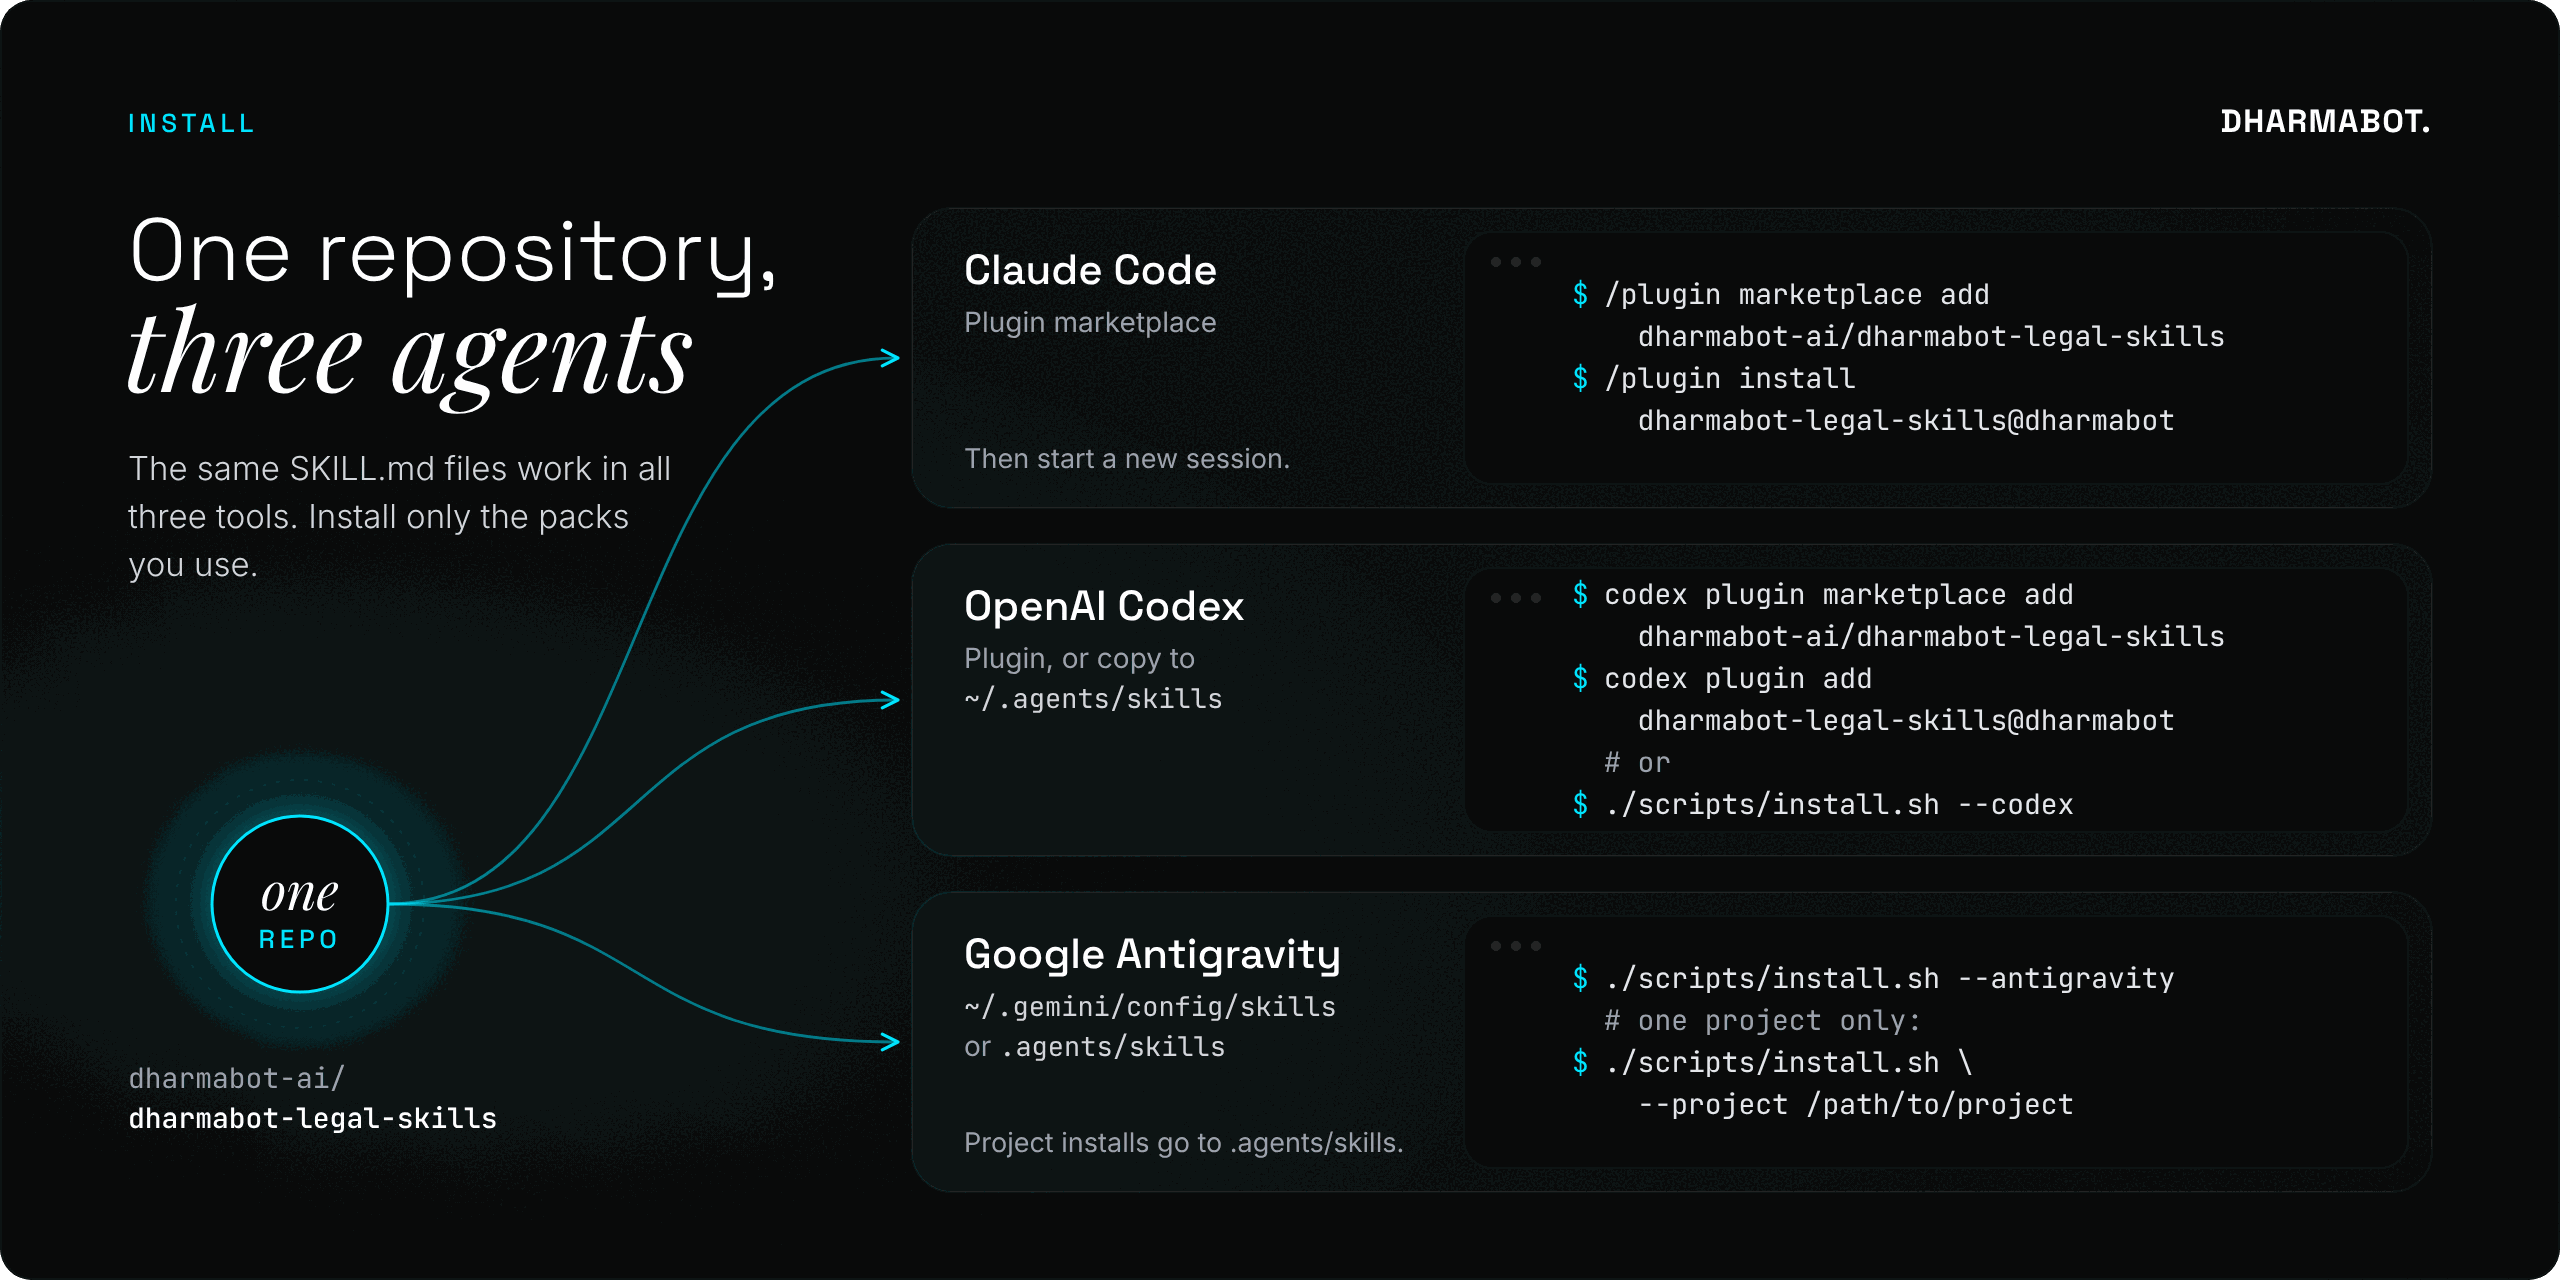
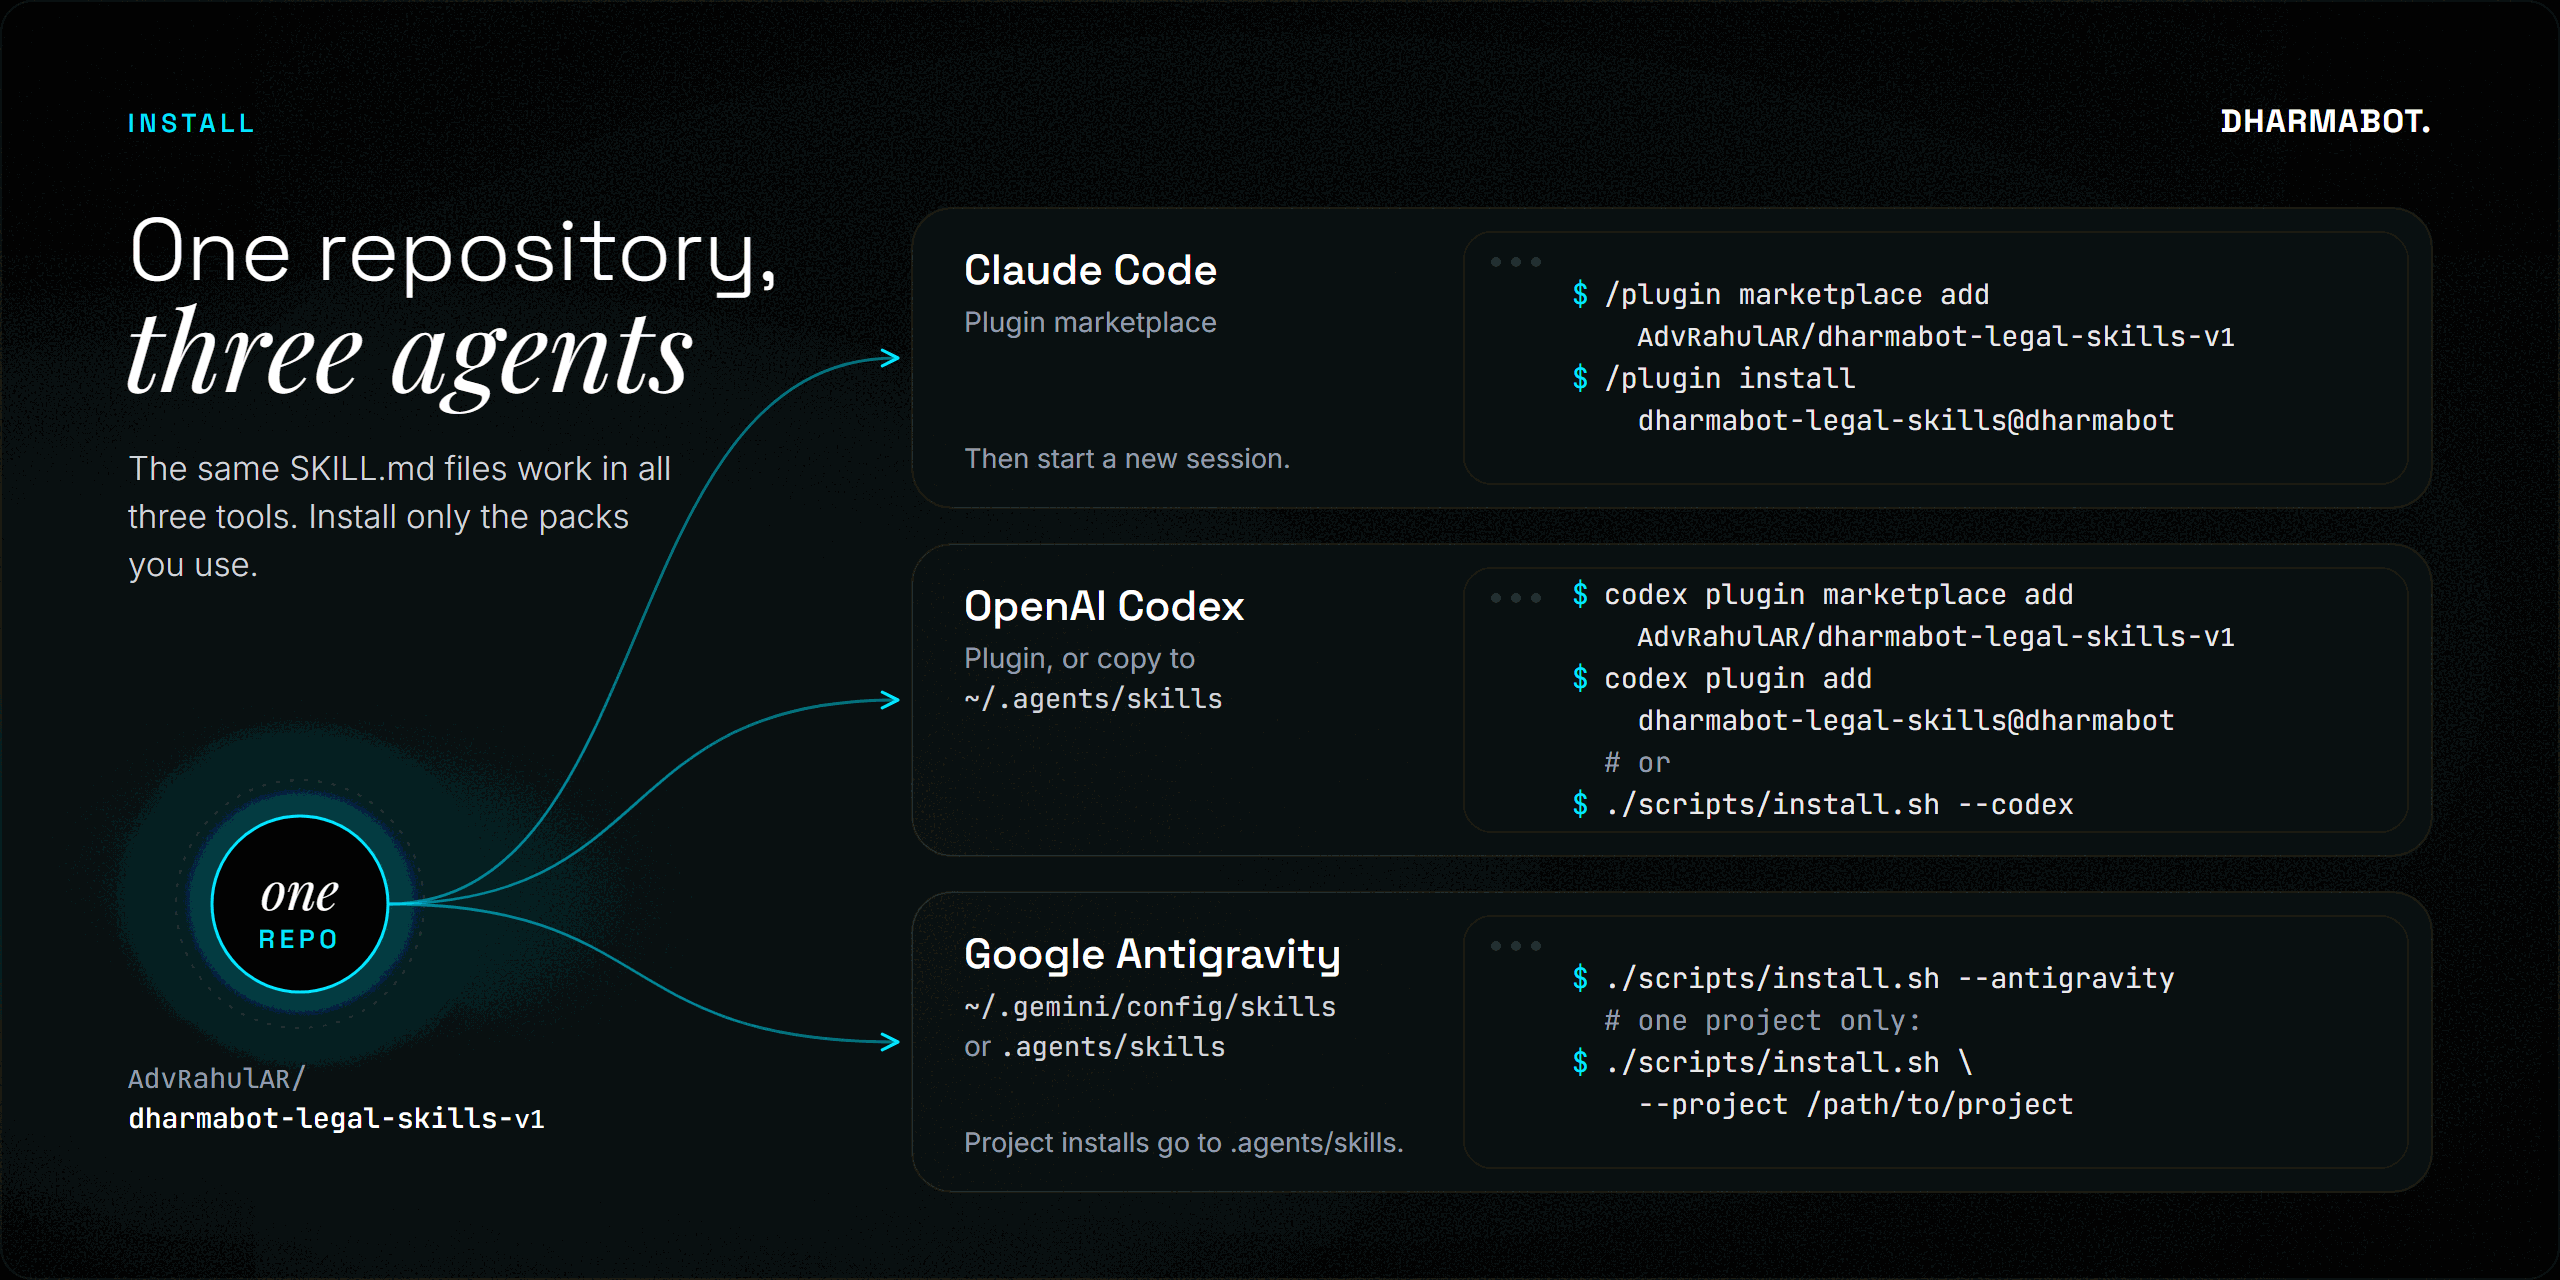
Point install commands and links to AdvRahulAR/dharmabot-legal-skills-v1

diff --git a/README.md b/README.md
@@ -117,7 +117,7 @@ Copy [`templates/dharmabot-profile.md`](templates/dharmabot-profile.md) into you
 ### Claude Code
 
 ```text
-/plugin marketplace add dharmabot-ai/dharmabot-legal-skills
+/plugin marketplace add AdvRahulAR/dharmabot-legal-skills-v1
 /plugin install dharmabot-legal-skills@dharmabot
 ```
 
@@ -126,22 +126,22 @@ Then start a new session or run `/reload-plugins`.
 ### OpenAI Codex
 
 ```bash
-codex plugin marketplace add dharmabot-ai/dharmabot-legal-skills
+codex plugin marketplace add AdvRahulAR/dharmabot-legal-skills-v1
 codex plugin add dharmabot-legal-skills@dharmabot
 ```
 
 Or copy the skills into your user folder:
 
 ```bash
-git clone https://github.com/dharmabot-ai/dharmabot-legal-skills
-cd dharmabot-legal-skills && ./scripts/install.sh --codex
+git clone https://github.com/AdvRahulAR/dharmabot-legal-skills-v1
+cd dharmabot-legal-skills-v1 && ./scripts/install.sh --codex
 ```
 
 ### Google Antigravity
 
 ```bash
-git clone https://github.com/dharmabot-ai/dharmabot-legal-skills
-cd dharmabot-legal-skills && ./scripts/install.sh --antigravity
+git clone https://github.com/AdvRahulAR/dharmabot-legal-skills-v1
+cd dharmabot-legal-skills-v1 && ./scripts/install.sh --antigravity
 ```
 
 For one project only, use `./scripts/install.sh --project /path/to/project`. This installs into `.claude/skills/` and `.agents/skills/` in that project; Codex and Antigravity both read `.agents/skills/`.

diff --git a/AGENTS.md b/AGENTS.md
@@ -4,8 +4,8 @@ This repository contains Dharmabot Legal Skills: Agent Skills (`SKILL.md` folder
 
 ## If you are asked to install these skills
 
-- **Claude Code:** run `claude plugin marketplace add dharmabot-ai/dharmabot-legal-skills`, then `claude plugin install dharmabot-legal-skills@dharmabot`. Tell the user to start a new session or run `/reload-plugins`.
-- **Codex:** run `codex plugin marketplace add dharmabot-ai/dharmabot-legal-skills`, then `codex plugin add dharmabot-legal-skills@dharmabot`. Alternatively clone the repo and run `./scripts/install.sh --codex`.
+- **Claude Code:** run `claude plugin marketplace add AdvRahulAR/dharmabot-legal-skills-v1`, then `claude plugin install dharmabot-legal-skills@dharmabot`. Tell the user to start a new session or run `/reload-plugins`.
+- **Codex:** run `codex plugin marketplace add AdvRahulAR/dharmabot-legal-skills-v1`, then `codex plugin add dharmabot-legal-skills@dharmabot`. Alternatively clone the repo and run `./scripts/install.sh --codex`.
 - **Antigravity:** clone the repo and run `./scripts/install.sh --antigravity` (or `--project <dir>` for one workspace).
 
 Afterwards, tell the user that the skills are drafts for review by an enrolled advocate, and point them to `DISCLAIMER.md`.
